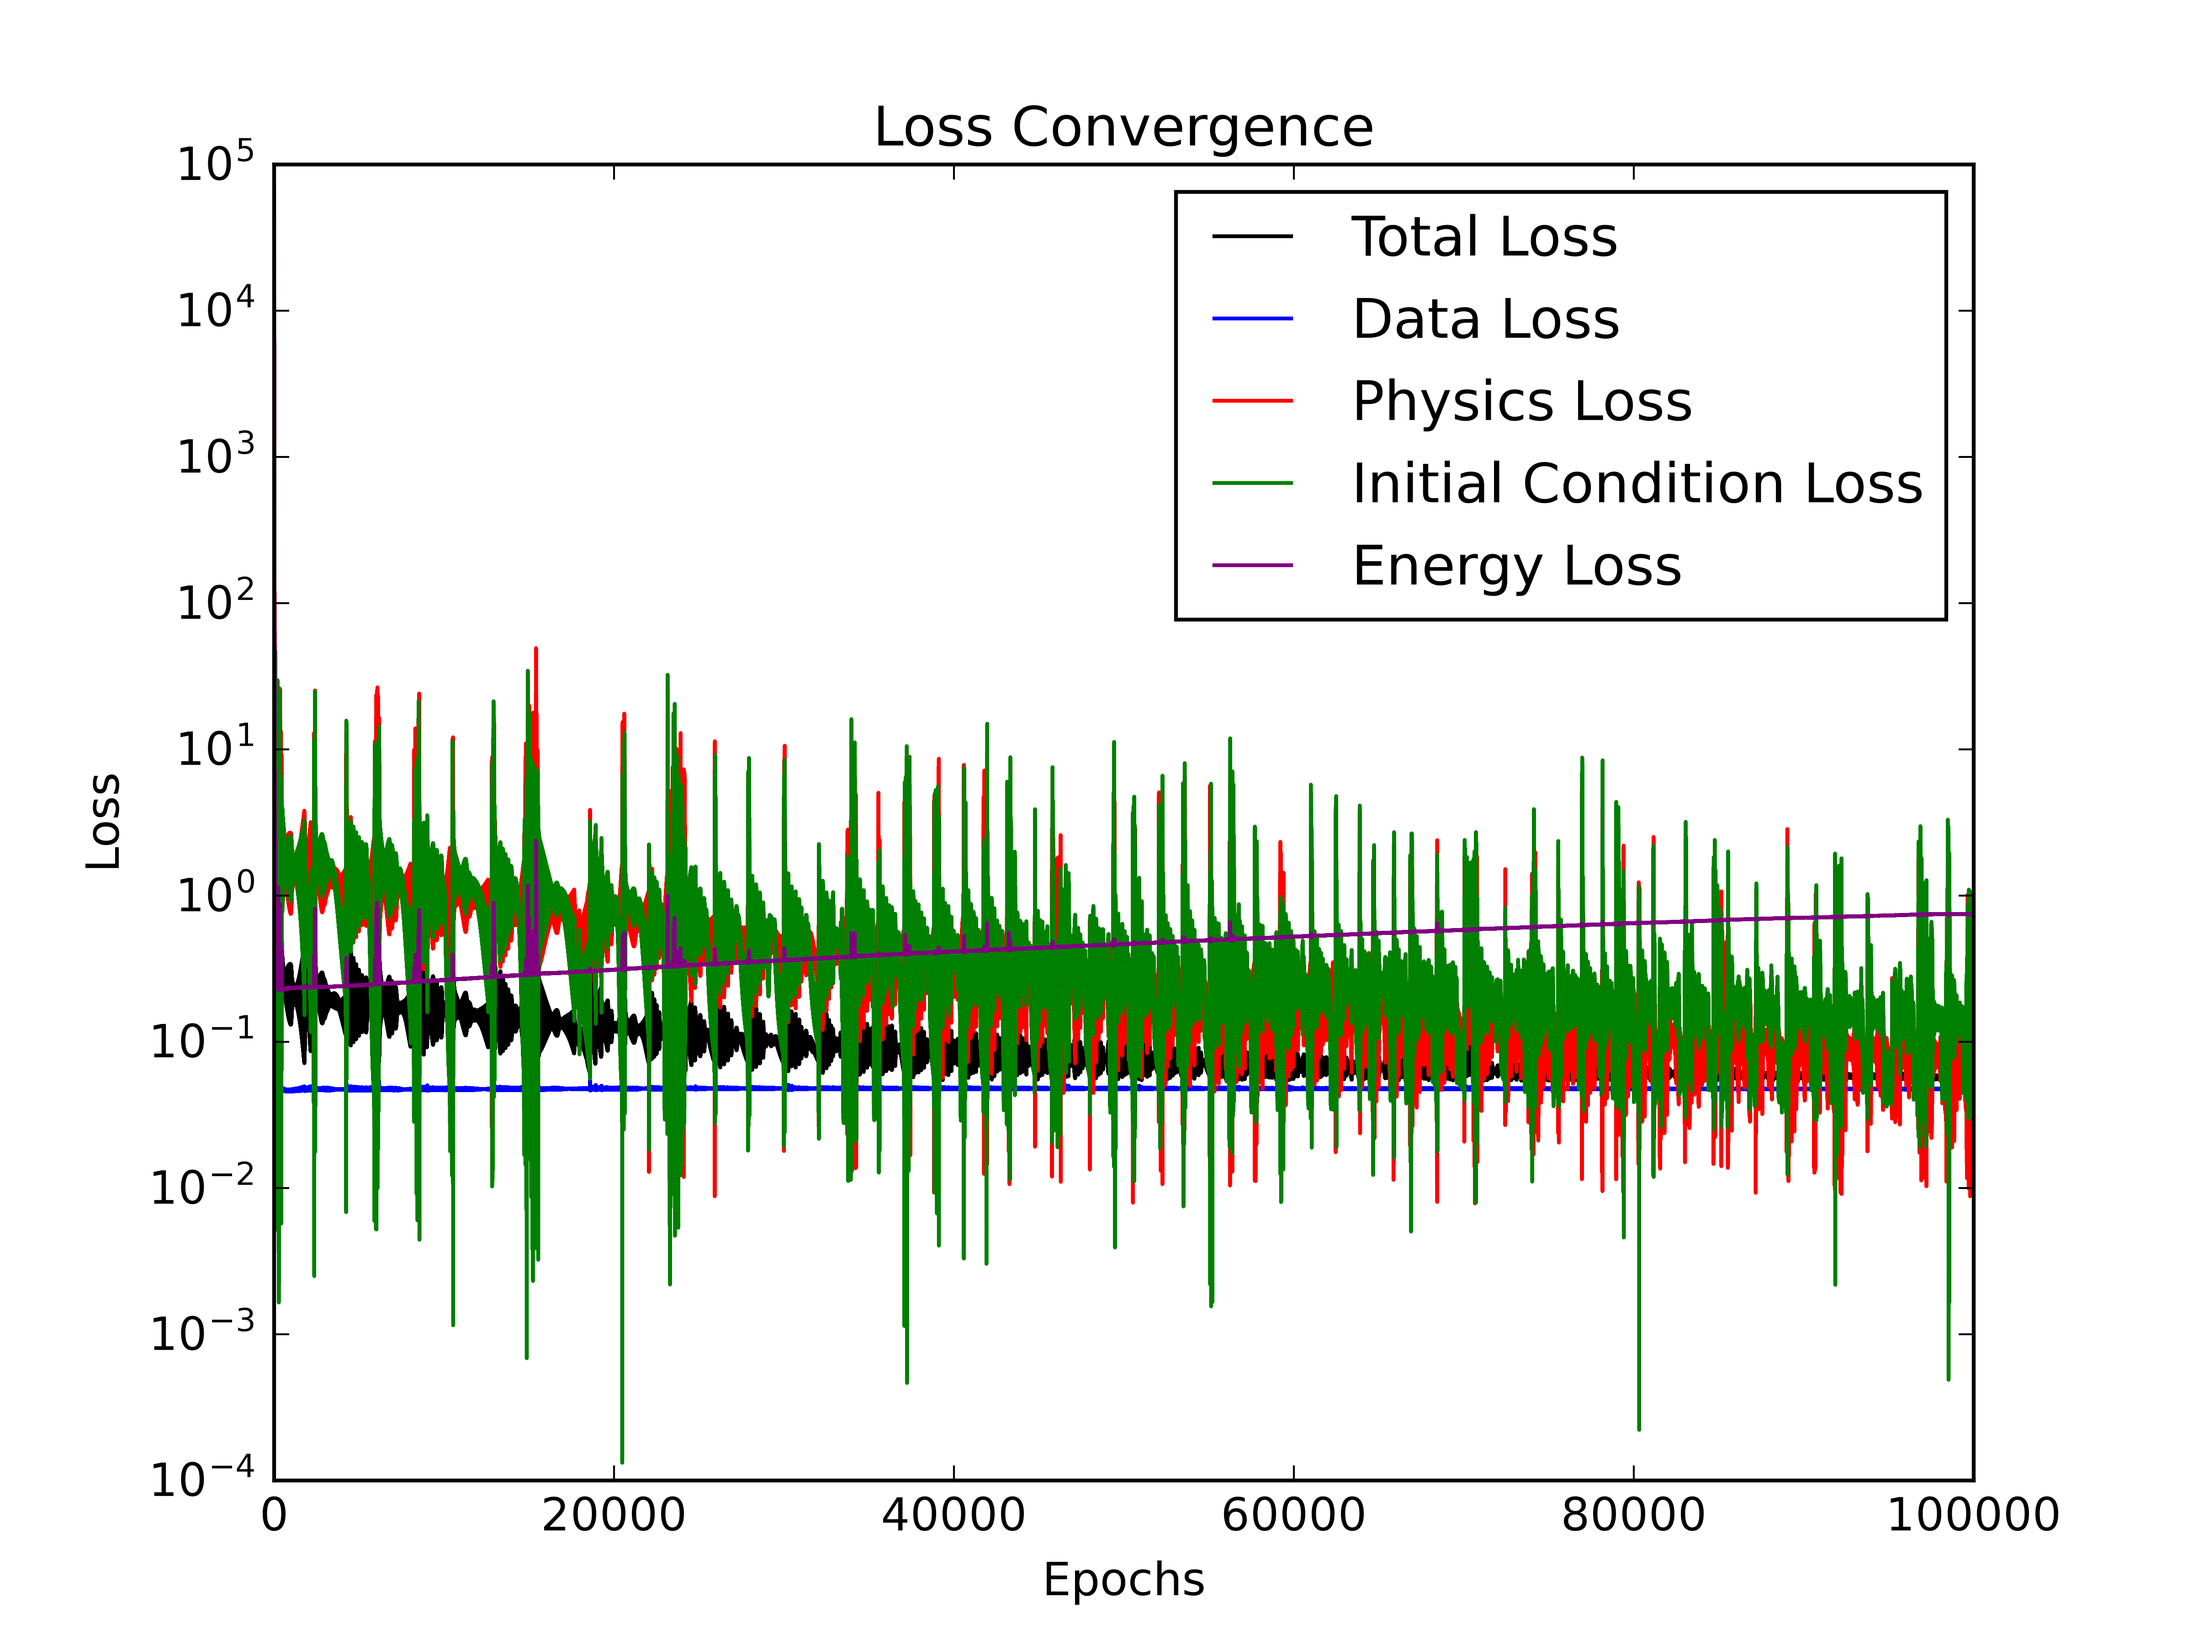
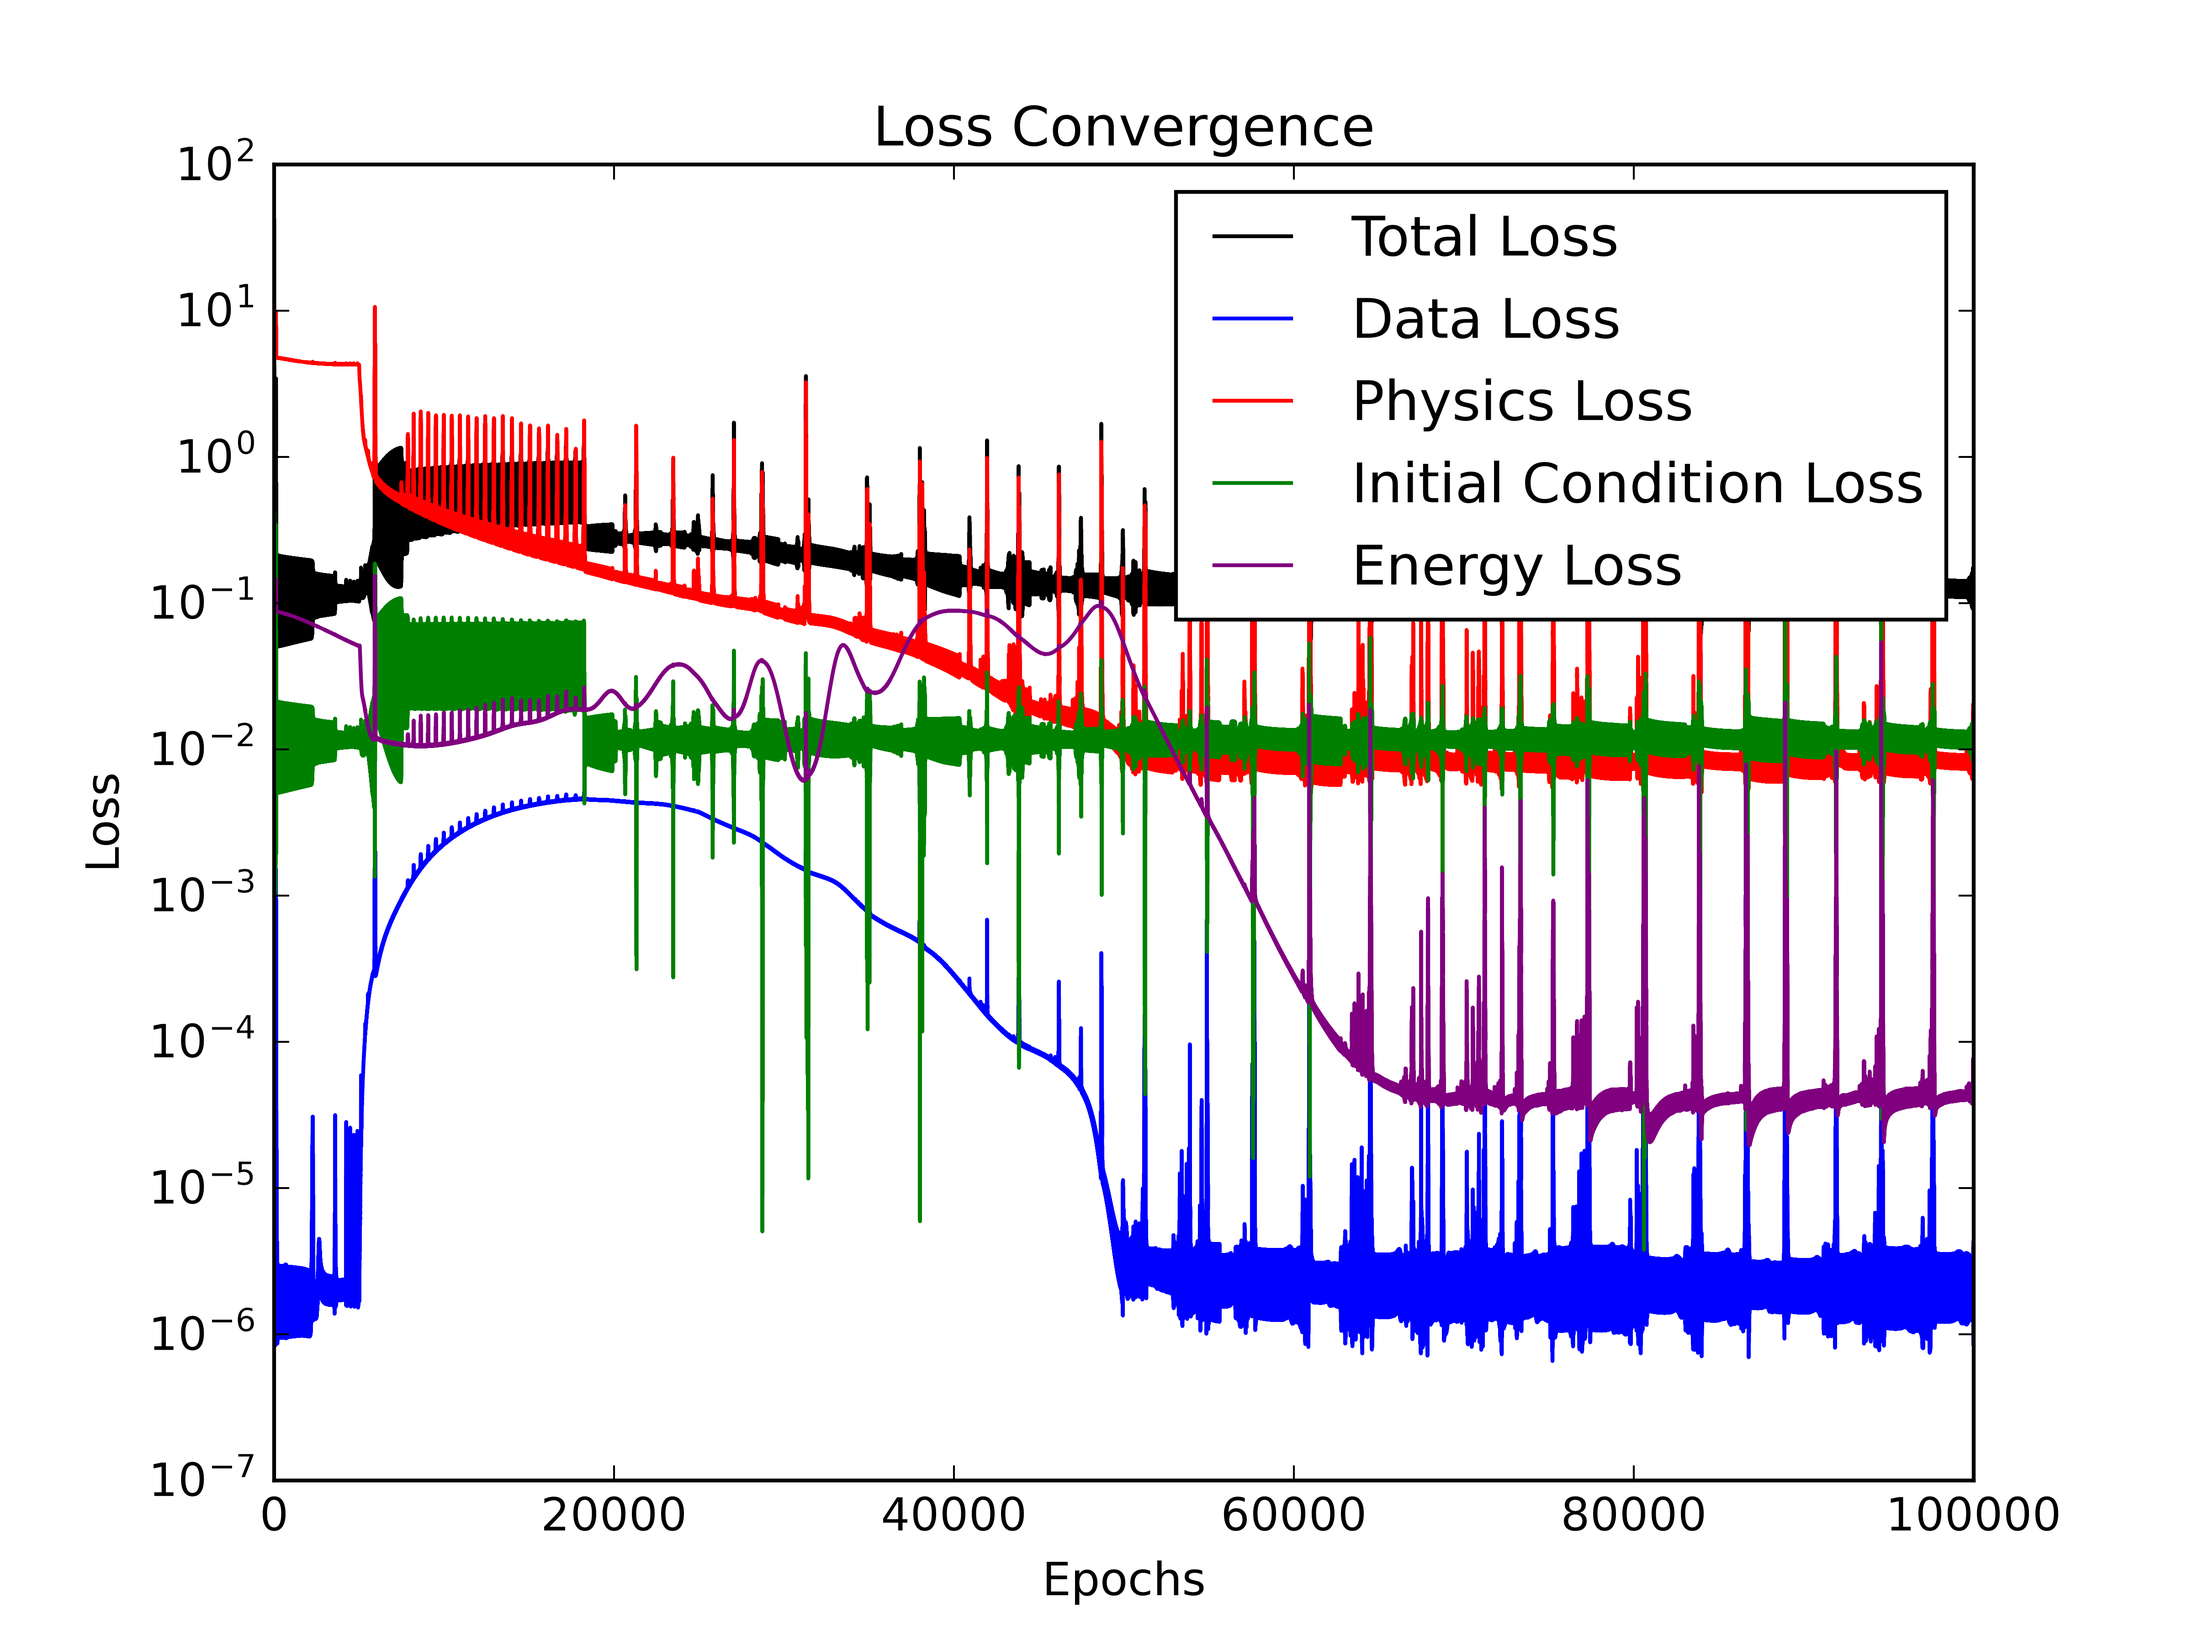
update PINNs

Changed region(s): [[0.0625, 0.2178, 0.9062, 0.84], [0.875, 0.3422, 0.9062, 0.3733]]

diff --git a/fPINNs/fpinn_ver6.py b/fPINNs/fpinn_ver6.py
@@ -63,7 +63,7 @@ physics_modes = min(128, len(omegafreq_np))
 omegafreq_active = omegafreq[:physics_modes]
 omegafreq_input = omegafreq_active.view(-1, 1)
 
-alpha_init = 10.0
+alpha_init = 0.0
 
 
 def estimate_initial_mode():
@@ -298,13 +298,8 @@ for epoch in range(epochs + 1):
     elapsed_time = time.time() - start_time
     if epoch % print_every == 0:
         print(
-            f"\rEpoch {epoch}, Loss: {loss.item():.6e}, "
-            f"Data: {data_loss.item():.3e}, "
-            f"Physics: {physics_loss.item():.3e}, "
-            f"lambda_phys: {physics_weight:.3e}, "
-            f"alpha: {model.alpha.item():.6f}, "
-            f"Time: {time_format(elapsed_time)}",
-            end="",
+            f'\rEpoch {epoch}, Loss: {loss.item():.6e}, alpha: {model.alpha.item():.6f}, Time: {time_format(elapsed_time)}',
+            end='',
             flush=True,
         )
 
